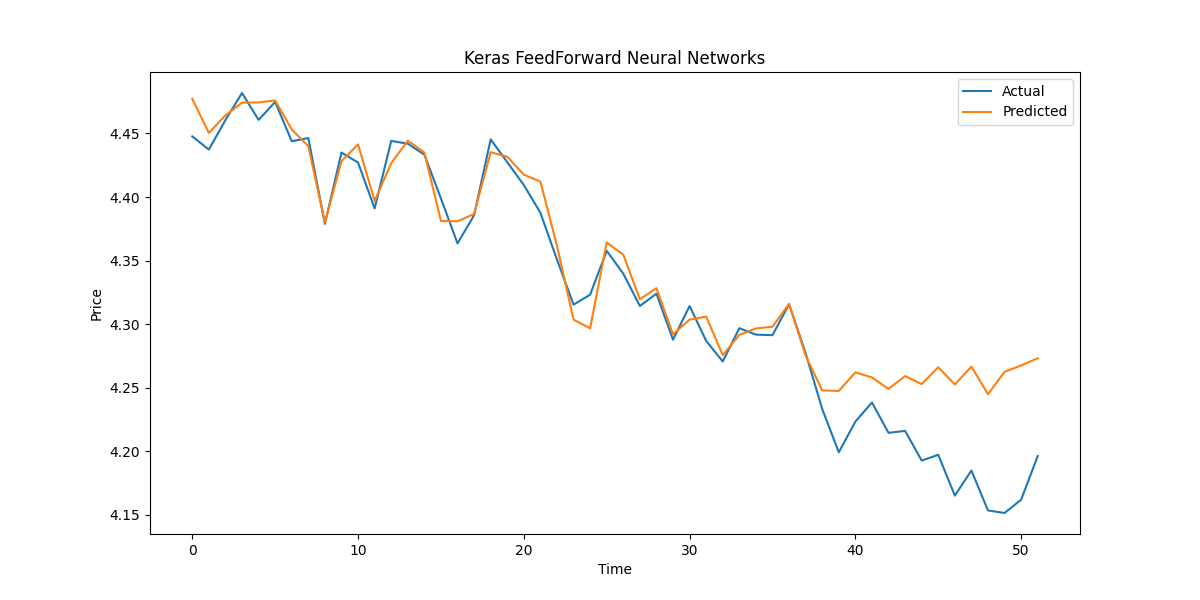
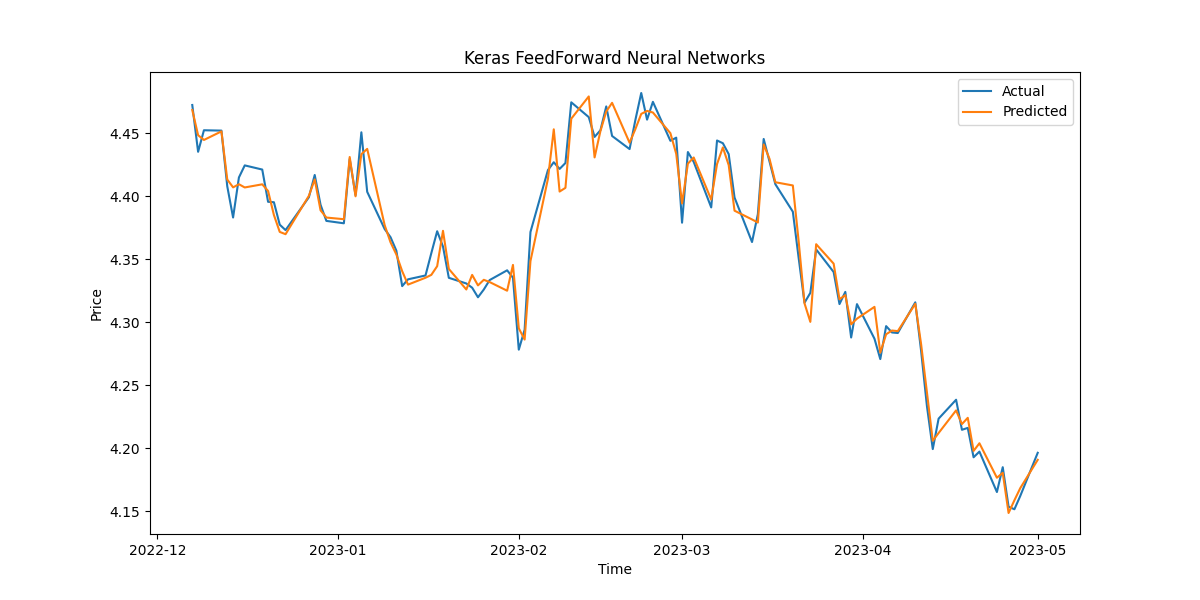
chat x axis fix

diff --git a/app/core/commands/keras_feedforward.py b/app/core/commands/keras_feedforward.py
@@ -1,5 +1,8 @@
 import logging
 from argparse import Namespace
+
+from pandas import DataFrame
+
 from core.data.visualization import inspect_data
 from core.management import BaseCommand, BaseCommandArgumentParser
 from core.data.mse import calculate_mse
@@ -46,13 +49,12 @@ class Command(BaseCommand):
         mse = calculate_mse(predictions, test_data['Close'].values)
         self.logger.info(f"MSE: {mse}")
 
-        # Plot the results
-        self.plot(test_data['Close'].values, predictions, args)
+        self.plot(test_data, predictions, args)
 
-    def plot(self, actual_values: np.ndarray, predictions: np.ndarray, args: Namespace):
+    def plot(self, actual_values: DataFrame, predictions: np.ndarray, args: Namespace):
         plt.figure(figsize=(12, 6))
-        plt.plot(actual_values, label='Actual')
-        plt.plot(predictions, label='Predicted')
+        plt.plot(actual_values.index, actual_values['Close'].values, label='Actual')
+        plt.plot(actual_values.index, predictions, label='Predicted')
         plt.title('USD/PLN Actual vs. Predicted Prices')
         plt.xlabel('Time')
         plt.ylabel('Price')
